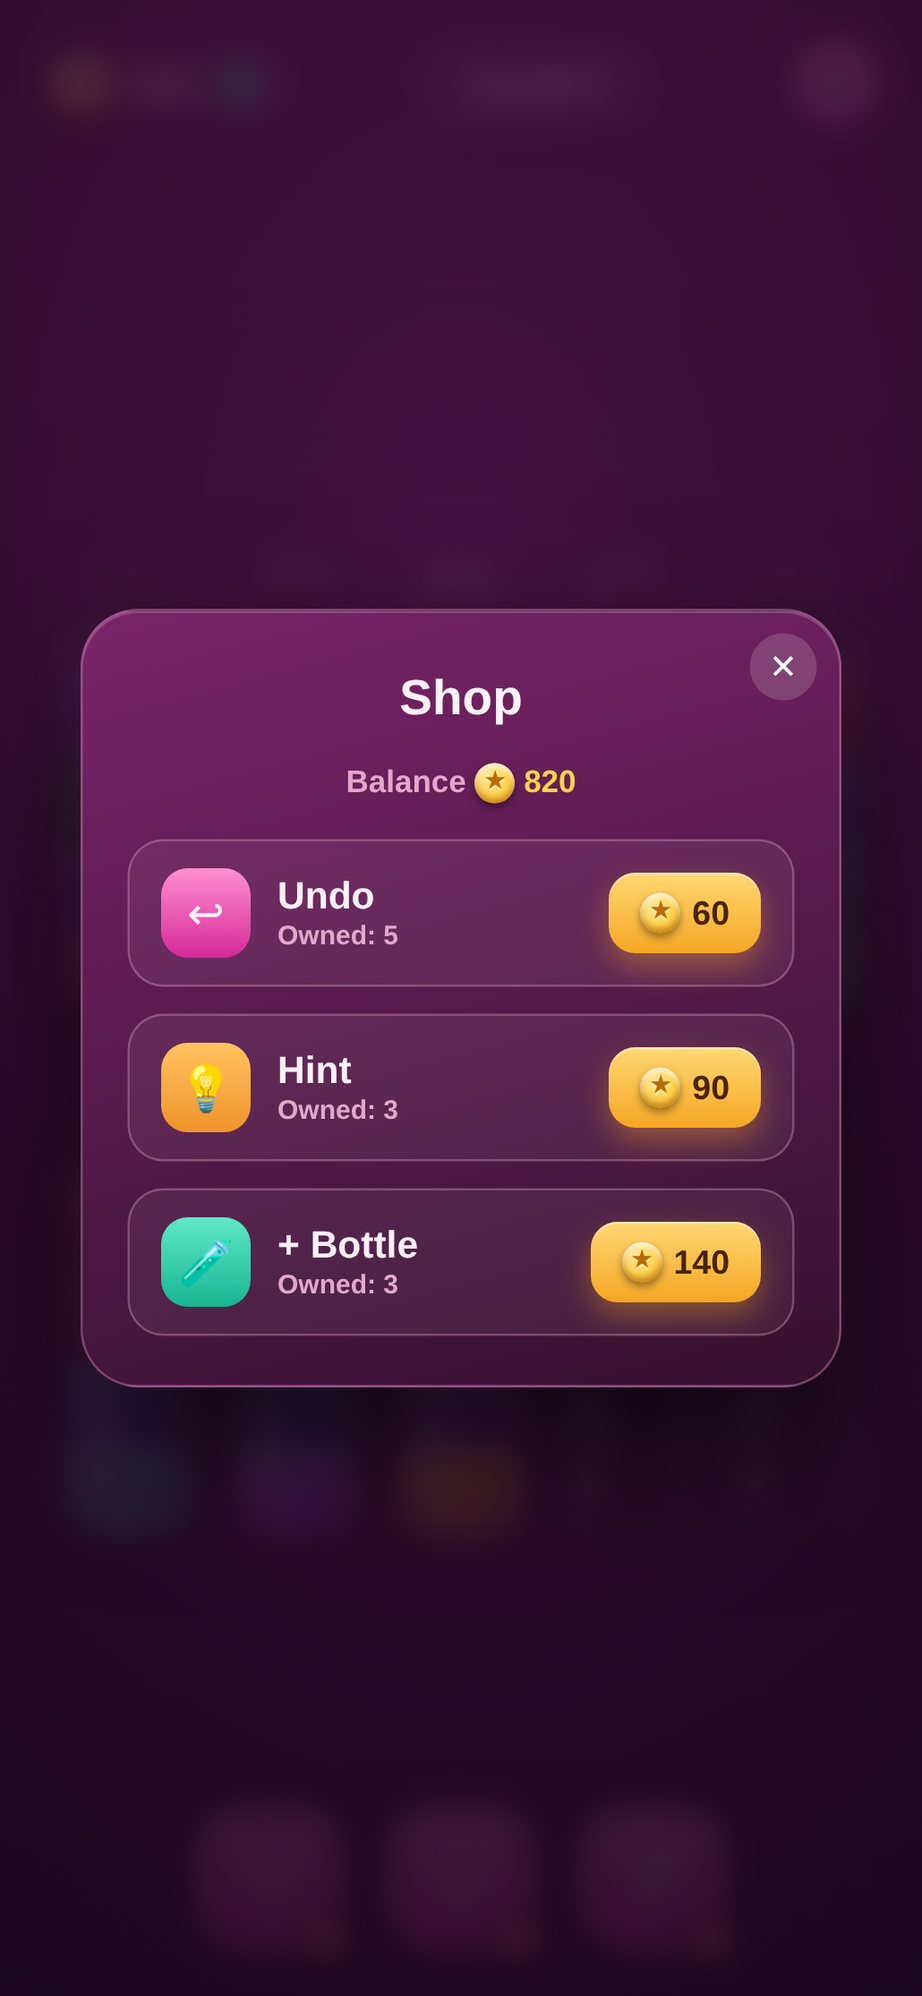
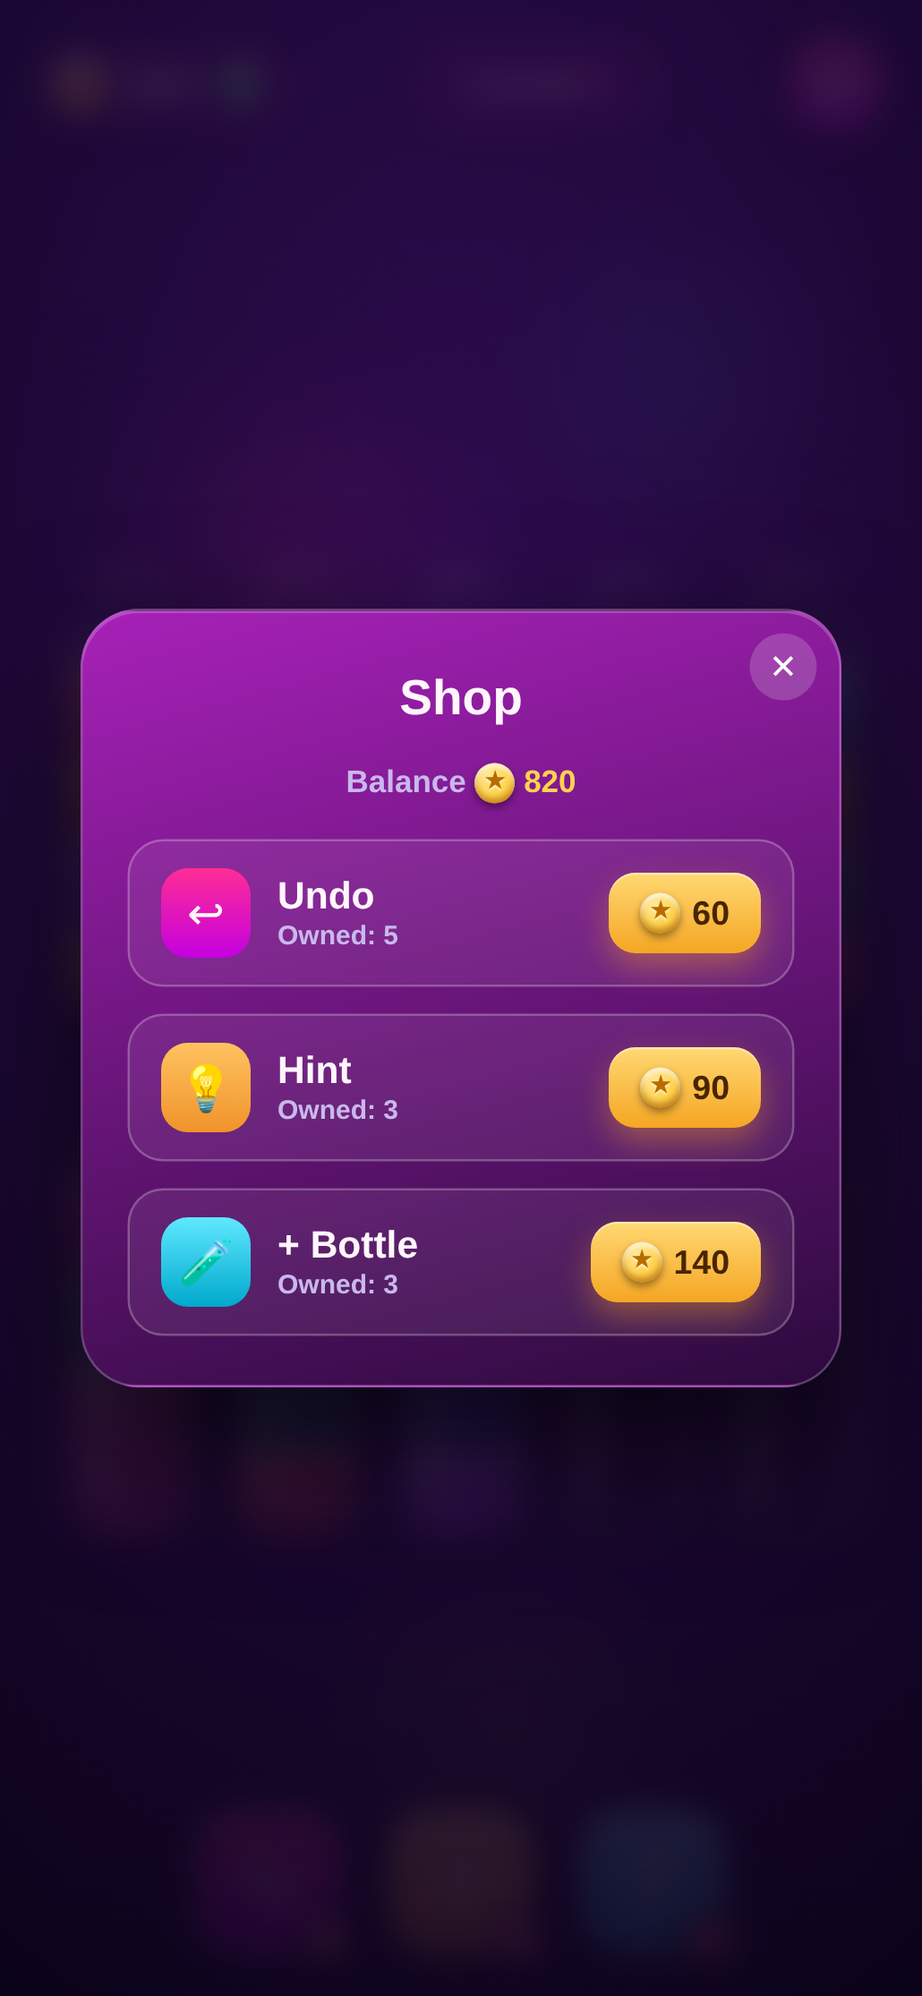
Candy-pop palette redesign + juicy coin feedback
The monochrome plum/pink theme read as flat and adult, not the playful
kid-friendly 'Pop' the name promises. Full repaint:

- Background: swap the single pink-tinted haze for a gumball-machine
  glow — three saturated bokeh blobs (hot pink, cyan, gold) drifting
  over a deep indigo-violet night sky, plus pink/cyan/gold twinkle
  variety in the starfield.
- Power-up bar: each button gets its own candy colour (pink Undo,
  amber Hint, cyan +Bottle) instead of one repeated tint, with a
  thicker glossy top highlight for a harder candy-shell look.
  Settings gear and modal cards move to a punchier magenta-to-violet
  gradient; Next/Close CTA becomes a vivid lime green for contrast.
- Icon/favicon/OG image regenerated with the same saturated palette
  (hot-pink-to-magenta liquid, cyan sparkle accent).
- Addictive juice: the coin counter now tweens up/down instead of
  snapping, with a spring bounce on the coin pill whenever the balance
  changes (spend or earn) — verified via a solve-to-win run (820 to
  910 mid-tween to 950 final).
- Regenerate the pour/complete-FX README screenshots to match the new
  palette; drop two stale unreferenced screenshots.
- README: document the new palette/juice, and add step-by-step
  guidance for unifying split Vercel domains (same-project multiple
  domains vs. a stale duplicate project left over from the repo
  rename) — this requires Vercel dashboard access Claude doesn't have.
[…]

diff --git a/style.css b/style.css
@@ -1,18 +1,22 @@
 :root {
-  --bg-top: #5c1c56;
-  --bg-mid: #3a0f3d;
-  --bg-bot: #180620;
-  --panel: rgba(255, 140, 205, 0.14);
-  --stroke: rgba(255, 195, 228, 0.28);
-  --text: #fff0f8;
-  --text-dim: #e2a8cc;
-  --accent: #ff8fcf;
-  --pink: #ff6fb4;
-  --pink-2: #d6299a;
+  --bg-top: #22105a;
+  --bg-mid: #170b3c;
+  --bg-bot: #0a0620;
+  --panel: rgba(255, 70, 175, 0.16);
+  --stroke: rgba(255, 255, 255, 0.24);
+  --text: #fff6fb;
+  --text-dim: #c9b8ec;
+  --accent: #ff4fb0;
+  --pink: #ff2d95;
+  --pink-2: #c400e0;
+  --cyan: #22e0ff;
+  --cyan-2: #00a8cc;
+  --lime: #7dff5e;
+  --lime-2: #22c55e;
   --gold: #ffd34e;
   --gold-2: #f5a623;
-  --danger: #ff4d6d;
-  --shadow: rgba(35, 5, 30, 0.55);
+  --danger: #ff3860;
+  --shadow: rgba(10, 0, 25, 0.6);
 }
 
 * { box-sizing: border-box; -webkit-tap-highlight-color: transparent; }
@@ -37,35 +41,41 @@ body {
 .s1 {
   background-image:
     radial-gradient(1.4px 1.4px at 20% 30%, #fff, transparent),
-    radial-gradient(1.6px 1.6px at 70% 20%, #ffd6ec, transparent),
+    radial-gradient(1.8px 1.8px at 70% 20%, #ff9fd6, transparent),
     radial-gradient(1.2px 1.2px at 40% 70%, #fff, transparent),
-    radial-gradient(1.5px 1.5px at 85% 60%, #fff, transparent),
-    radial-gradient(1.3px 1.3px at 55% 45%, #ffb8dd, transparent),
+    radial-gradient(1.8px 1.8px at 85% 60%, #7bf3ff, transparent),
+    radial-gradient(1.5px 1.5px at 55% 45%, #ffe89a, transparent),
     radial-gradient(1.2px 1.2px at 10% 80%, #fff, transparent),
-    radial-gradient(1.5px 1.5px at 90% 88%, #fff, transparent);
+    radial-gradient(1.6px 1.6px at 90% 88%, #ff9fd6, transparent);
   background-size: 320px 320px;
   animation: twinkle 4.5s ease-in-out infinite alternate, floatY 60s linear infinite;
 }
 .s2 {
   background-image:
-    radial-gradient(1px 1px at 30% 50%, rgba(255,255,255,0.8), transparent),
-    radial-gradient(1px 1px at 65% 75%, rgba(255,214,236,0.8), transparent),
+    radial-gradient(1px 1px at 30% 50%, rgba(255,255,255,0.85), transparent),
+    radial-gradient(1.2px 1.2px at 65% 75%, rgba(123,243,255,0.8), transparent),
     radial-gradient(1px 1px at 15% 20%, rgba(255,255,255,0.7), transparent),
-    radial-gradient(1px 1px at 80% 35%, rgba(255,255,255,0.7), transparent);
+    radial-gradient(1.2px 1.2px at 80% 35%, rgba(255,159,214,0.8), transparent);
   background-size: 200px 200px;
-  opacity: 0.6;
+  opacity: 0.65;
   animation: twinkle 6s ease-in-out infinite alternate-reverse, floatY 90s linear infinite;
 }
-@keyframes twinkle { from { opacity: .35; } to { opacity: .9; } }
+@keyframes twinkle { from { opacity: .35; } to { opacity: 1; } }
 @keyframes floatY { from { transform: translateY(0); } to { transform: translateY(60px); } }
-/* soft light halo behind the bottles */
+/* candy-glow bokeh: three saturated blobs (pink / cyan / gold) so the
+   backdrop reads as a gumball-machine glow, not a single flat tint */
 .glow {
-  position: absolute;
-  left: 50%; top: 52%;
-  width: 120vmin; height: 120vmin;
-  transform: translate(-50%, -50%);
-  background: radial-gradient(closest-side, rgba(255,140,205,0.22), rgba(255,110,190,0.08) 45%, transparent 70%);
-  filter: blur(4px);
+  position: absolute; inset: -10%;
+  background:
+    radial-gradient(closest-side, rgba(255, 45, 149, 0.38), transparent 72%) 20% 26% / 62vmin 62vmin no-repeat,
+    radial-gradient(closest-side, rgba(34, 224, 255, 0.24), transparent 72%) 84% 18% / 54vmin 54vmin no-repeat,
+    radial-gradient(closest-side, rgba(255, 211, 78, 0.18), transparent 72%) 58% 88% / 58vmin 58vmin no-repeat;
+  filter: blur(6px);
+  animation: drift 22s ease-in-out infinite alternate;
+}
+@keyframes drift {
+  from { transform: translate3d(-2%, -1%, 0) scale(1.02); }
+  to   { transform: translate3d(3%, 2%, 0) scale(1.08); }
 }
 
 #app {
@@ -88,15 +98,17 @@ body {
   border: 1px solid var(--stroke);
   background: var(--panel);
   backdrop-filter: blur(8px);
-  box-shadow: 0 6px 16px var(--shadow), inset 0 1px 0 rgba(255,255,255,0.14);
+  box-shadow: 0 6px 16px var(--shadow), inset 0 1px 0 rgba(255,255,255,0.16);
 }
 .coin-pill { gap: 8px; padding: 5px 12px 5px 6px; cursor: pointer; color: var(--text); font: inherit; transition: transform .12s; }
 .coin-pill:active { transform: scale(0.95); }
+.coin-pill.coin-bounce { animation: coinBounce .45s cubic-bezier(.34,1.7,.4,1); }
+@keyframes coinBounce { 0% { transform: scale(1); } 35% { transform: scale(1.16); } 62% { transform: scale(0.94); } 100% { transform: scale(1); } }
 .coin-plus {
   width: 20px; height: 20px; margin-left: 2px; border-radius: 50%;
   display: grid; place-items: center; font-weight: 900; font-size: 14px; line-height: 1;
-  background: linear-gradient(180deg, #4fe0b8, #17b491); color: #04291f;
-  box-shadow: inset 0 1px 0 rgba(255,255,255,.4);
+  background: linear-gradient(180deg, var(--lime), var(--lime-2)); color: #063d17;
+  box-shadow: inset 0 1px 0 rgba(255,255,255,.5);
 }
 .coin {
   width: 26px; height: 26px; border-radius: 50%;
@@ -122,7 +134,7 @@ body {
   color: #fff;
   display: grid; place-items: center;
   cursor: pointer;
-  box-shadow: 0 6px 16px var(--shadow), inset 0 1px 0 rgba(255,255,255,0.35);
+  box-shadow: 0 6px 16px var(--shadow), inset 0 2px 0 rgba(255,255,255,0.4);
   transition: transform .12s;
 }
 .round-btn:active { transform: scale(0.92); }
@@ -134,19 +146,23 @@ body {
 #game { position: absolute; inset: 0; width: 100%; height: 100%; display: block; touch-action: manipulation; }
 
 /* ============ Power-up bar ============ */
+/* A gumball trio — each power-up gets its own candy colour instead of one
+   flat repeated tint, so the bar itself reads as playful and varied. */
 .actions { display: flex; gap: 20px; justify-content: center; padding: 8px 0 6px; }
 .pw {
   position: relative;
   width: 66px; height: 66px;
   border-radius: 22px;
-  border: 2px solid rgba(255, 214, 120, 0.55);
-  background: linear-gradient(180deg, #ff8fd0, #d6299a);
+  border: 2px solid rgba(255, 255, 255, 0.35);
+  background: linear-gradient(180deg, var(--pink), var(--pink-2));
   color: #fff;
   display: grid; place-items: center;
   cursor: pointer;
-  box-shadow: 0 8px 20px var(--shadow), inset 0 2px 0 rgba(255,255,255,0.3), inset 0 -4px 8px rgba(120,0,80,0.25);
+  box-shadow: 0 8px 20px var(--shadow), inset 0 3px 0 rgba(255,255,255,0.4), inset 0 -4px 8px rgba(90,0,60,0.3);
   transition: transform .1s, filter .2s;
 }
+#hintBtn.pw { background: linear-gradient(180deg, #ffc25f, #f0932b); box-shadow: 0 8px 20px var(--shadow), inset 0 3px 0 rgba(255,255,255,0.45), inset 0 -4px 8px rgba(120,60,0,0.3); }
+#addTubeBtn.pw { background: linear-gradient(180deg, #5fe8ff, #00a8cc); box-shadow: 0 8px 20px var(--shadow), inset 0 3px 0 rgba(255,255,255,0.45), inset 0 -4px 8px rgba(0,60,80,0.3); }
 .pw:active { transform: translateY(3px) scale(0.96); }
 .pw svg { width: 30px; height: 30px; }
 .pw-badge {
@@ -158,14 +174,14 @@ body {
   color: #fff;
   font-family: "Baloo 2", sans-serif; font-weight: 800; font-size: 13px;
   display: grid; place-items: center;
-  border: 2px solid #3a0f2e;
+  border: 2px solid #1f0f3d;
   box-shadow: 0 3px 7px rgba(0,0,0,.45);
 }
 .pw-badge.ad::before { content: "▶"; font-size: 10px; }
 .pw.pulse { animation: pwpulse 1s ease infinite; }
 @keyframes pwpulse {
-  0%,100% { box-shadow: 0 8px 20px var(--shadow), inset 0 2px 0 rgba(255,255,255,.3), 0 0 0 0 rgba(255,211,78,0); }
-  50% { box-shadow: 0 8px 20px var(--shadow), inset 0 2px 0 rgba(255,255,255,.3), 0 0 0 8px rgba(255,211,78,.3); }
+  0%,100% { box-shadow: 0 8px 20px var(--shadow), inset 0 3px 0 rgba(255,255,255,.4), 0 0 0 0 rgba(255,211,78,0); }
+  50% { box-shadow: 0 8px 20px var(--shadow), inset 0 3px 0 rgba(255,255,255,.4), 0 0 0 8px rgba(255,211,78,.35); }
 }
 
 /* ============ Overlays / modals ============ */
@@ -173,7 +189,7 @@ body {
   position: fixed; inset: 0; z-index: 60;
   display: flex; align-items: center; justify-content: center;
   padding: 24px;
-  background: radial-gradient(120% 90% at 50% 30%, rgba(70,17,64,0.80), rgba(22,5,26,0.92));
+  background: radial-gradient(120% 90% at 50% 30%, rgba(50,12,80,0.82), rgba(8,3,20,0.94));
   backdrop-filter: blur(7px);
   animation: fade .25s ease;
 }
@@ -186,9 +202,9 @@ body {
   z-index: 2;
   width: 100%; max-width: 340px;
   border-radius: 26px;
-  background: linear-gradient(165deg, #7a2569, #34102f);
-  border: 1px solid rgba(255,190,225,0.30);
-  box-shadow: 0 28px 64px rgba(0,0,0,0.65), inset 0 1px 0 rgba(255,255,255,0.18);
+  background: linear-gradient(165deg, #a721b8, #2c0a3d);
+  border: 1px solid rgba(255,255,255,0.22);
+  box-shadow: 0 28px 64px rgba(0,0,0,0.65), inset 0 1px 0 rgba(255,255,255,0.2);
   animation: rise .35s cubic-bezier(.2,1.4,.5,1);
   text-align: center;
 }
@@ -201,7 +217,7 @@ body {
   display: flex; justify-content: center; align-items: flex-end; gap: 10px;
   pointer-events: none;
 }
-.win-star { font-size: 50px; line-height: 1; color: #4a1f45; text-shadow: 0 4px 8px rgba(0,0,0,.45); transform: scale(.7); }
+.win-star { font-size: 50px; line-height: 1; color: #3d1a4a; text-shadow: 0 4px 8px rgba(0,0,0,.45); transform: scale(.7); }
 .win-star.mid { font-size: 62px; margin-bottom: 6px; }
 .win-star.on { color: var(--gold); text-shadow: 0 0 20px rgba(255,211,78,.85), 0 4px 8px rgba(0,0,0,.45); animation: starpop .5s cubic-bezier(.2,1.7,.4,1) forwards; }
 @keyframes starpop { 0% { transform: scale(.2) rotate(-25deg); opacity: 0; } 65% { transform: scale(1.3) rotate(8deg); } 100% { transform: scale(1) rotate(0); opacity: 1; } }
@@ -218,7 +234,7 @@ body {
 .win-title { font-family: "Baloo 2", sans-serif; font-size: 28px; margin: 2px 0 6px; color: #fff; }
 .win-sub { color: var(--text-dim); font-size: 15px; margin: 0 0 12px; font-weight: 700; }
 .win-sub b { color: #fff; }
-.win-coins { display: inline-flex; align-items: center; justify-content: center; gap: 6px; margin-bottom: 22px; padding: 6px 16px; border-radius: 999px; background: rgba(255,211,78,0.14); font-family: "Baloo 2", sans-serif; font-size: 19px; color: var(--gold); }
+.win-coins { display: inline-flex; align-items: center; justify-content: center; gap: 6px; margin-bottom: 22px; padding: 6px 16px; border-radius: 999px; background: rgba(255,211,78,0.16); font-family: "Baloo 2", sans-serif; font-size: 19px; color: var(--gold); }
 .btn {
   flex: 1; padding: 15px 12px; border-radius: 16px; border: none;
   font-family: "Baloo 2", sans-serif; font-size: 17px; font-weight: 800; cursor: pointer;
@@ -226,8 +242,8 @@ body {
 }
 .btn:active { transform: scale(0.96); }
 .btn.wide { width: 100%; }
-.btn.primary { background: linear-gradient(180deg, #4fe0b8, #17b491); color: #04291f; box-shadow: 0 10px 22px rgba(23,180,145,.45), inset 0 1px 0 rgba(255,255,255,.35); }
-.btn.ghost { background: rgba(255,255,255,0.08); color: var(--text); border: 1px solid var(--stroke); }
+.btn.primary { background: linear-gradient(180deg, var(--lime), var(--lime-2)); color: #063d17; box-shadow: 0 10px 22px rgba(34,197,94,.5), inset 0 2px 0 rgba(255,255,255,.4); }
+.btn.ghost { background: rgba(255,255,255,0.10); color: var(--text); border: 1px solid var(--stroke); }
 
 /* Settings modal */
 .modal-card { padding: 26px 22px; }
@@ -236,7 +252,7 @@ body {
   width: 100%; display: flex; align-items: center; justify-content: space-between;
   padding: 14px 16px; margin-bottom: 10px;
   border-radius: 14px; border: 1px solid var(--stroke);
-  background: rgba(255,255,255,0.07); color: var(--text);
+  background: rgba(255,255,255,0.08); color: var(--text);
   font-family: "Nunito", sans-serif; font-weight: 800; font-size: 16px; cursor: pointer;
 }
 .row-val { color: var(--accent); }
@@ -252,18 +268,18 @@ body {
 .ad-x {
   position: absolute; top: 10px; right: 10px;
   width: 30px; height: 30px; border-radius: 50%;
-  border: none; background: rgba(255,255,255,0.16); color: #fff; font-size: 15px; cursor: pointer;
+  border: none; background: rgba(255,255,255,0.18); color: #fff; font-size: 15px; cursor: pointer;
 }
 .ad-visual {
   margin: 14px 0 16px; padding: 26px 14px;
   border-radius: 18px;
-  background: linear-gradient(150deg, #d6299a, #ff6fb4);
+  background: linear-gradient(150deg, #c400e0, #ff4fb0);
   box-shadow: inset 0 2px 10px rgba(0,0,0,.3);
 }
 .ad-icon { font-size: 54px; line-height: 1; filter: drop-shadow(0 4px 8px rgba(0,0,0,.4)); }
 .ad-headline { font-family: "Baloo 2", sans-serif; font-weight: 800; font-size: 22px; margin-top: 8px; }
 .ad-reward { color: #ffe08a; font-weight: 800; margin-top: 4px; }
-.ad-progress { height: 8px; border-radius: 6px; background: rgba(255,255,255,0.14); overflow: hidden; margin: 4px 0 8px; }
+.ad-progress { height: 8px; border-radius: 6px; background: rgba(255,255,255,0.16); overflow: hidden; margin: 4px 0 8px; }
 .ad-progress-fill { height: 100%; width: 0%; background: linear-gradient(90deg, #ffd34e, #f5a623); transition: width .1s linear; }
 .ad-status { color: var(--text-dim); font-weight: 700; font-size: 14px; margin-bottom: 12px; min-height: 18px; }
 
@@ -273,12 +289,12 @@ body {
 .shop-item {
   display: flex; align-items: center; gap: 12px;
   padding: 12px 14px; border-radius: 16px;
-  border: 1px solid var(--stroke); background: rgba(255,255,255,0.06);
+  border: 1px solid var(--stroke); background: rgba(255,255,255,0.07);
 }
 .shop-ic { width: 40px; height: 40px; border-radius: 12px; display: grid; place-items: center; font-size: 20px; flex: 0 0 auto; }
-.shop-ic.undo { background: linear-gradient(180deg, #ff8fd0, #d6299a); }
+.shop-ic.undo { background: linear-gradient(180deg, var(--pink), var(--pink-2)); }
 .shop-ic.hint { background: linear-gradient(180deg, #ffc25f, #f0932b); }
-.shop-ic.add { background: linear-gradient(180deg, #5fe8c9, #17b491); }
+.shop-ic.add { background: linear-gradient(180deg, #5fe8ff, #00a8cc); }
 .shop-info { flex: 1; display: flex; flex-direction: column; line-height: 1.2; text-align: left; }
 .shop-info b { font-family: "Baloo 2", sans-serif; font-size: 17px; }
 .shop-info small { font-size: 12px; color: var(--text-dim); font-weight: 700; }
@@ -306,8 +322,8 @@ body {
   transition: transform .1s, filter .2s, opacity .2s;
 }
 .store-opt:active { transform: scale(0.97); }
-.store-opt.watch { background: linear-gradient(180deg, #ff8fd0, #d6299a); box-shadow: 0 8px 18px var(--shadow), inset 0 1px 0 rgba(255,255,255,.25); }
-.store-opt.buy { background: linear-gradient(180deg, #ffd873, var(--gold-2)); box-shadow: 0 8px 18px rgba(245,166,35,.4), inset 0 1px 0 rgba(255,255,255,.35); }
+.store-opt.watch { background: linear-gradient(180deg, var(--pink), var(--pink-2)); box-shadow: 0 8px 18px var(--shadow), inset 0 1px 0 rgba(255,255,255,.3); }
+.store-opt.buy { background: linear-gradient(180deg, #ffd873, var(--gold-2)); box-shadow: 0 8px 18px rgba(245,166,35,.4), inset 0 1px 0 rgba(255,255,255,.4); }
 .store-opt.buy .so-txt b, .store-opt.buy .so-txt small { color: #4a2400; }
 .store-opt.buy .so-ic { background: rgba(74,36,0,0.14); }
 .store-opt.buy.disabled { filter: grayscale(0.7) brightness(0.8); opacity: 0.6; }

diff --git a/game.js b/game.js
@@ -976,10 +976,32 @@ function loadLevel(level) {
 
 function updateHud() {
   levelValueEl.textContent = String(state.level);
-  coinValueEl.textContent = String(state.coins);
+  animateCoins(state.coins);
   setBadge("undoBadge", state.pw.undo);
   setBadge("hintBadge", state.pw.hint);
   setBadge("addBadge", state.pw.add);
+}
+
+// Juicy coin counter: ticks up/down toward the target instead of snapping,
+// and gives the coin pill a little bounce when the balance changes.
+let coinShown = null, coinTween = null;
+function animateCoins(target) {
+  if (coinShown === null) { coinShown = target; coinValueEl.textContent = String(target); return; }
+  if (coinShown === target) return;
+  const from = coinShown, delta = target - from, dur = Math.min(900, 250 + Math.abs(delta) * 6);
+  const t0 = performance.now();
+  const pill = document.getElementById("coinPill");
+  if (pill) { pill.classList.remove("coin-bounce"); void pill.offsetWidth; pill.classList.add("coin-bounce"); }
+  cancelAnimationFrame(coinTween);
+  const step = (now) => {
+    const p = Math.min(1, (now - t0) / dur);
+    const eased = 1 - Math.pow(1 - p, 3);
+    const val = Math.round(from + delta * eased);
+    coinValueEl.textContent = String(val);
+    if (p < 1) coinTween = requestAnimationFrame(step);
+    else coinShown = target;
+  };
+  coinTween = requestAnimationFrame(step);
 }
 function setBadge(id, n) {
   const el = document.getElementById(id);

diff --git a/index.html b/index.html
@@ -33,7 +33,7 @@
   <link rel="preconnect" href="https://fonts.googleapis.com" />
   <link rel="preconnect" href="https://fonts.gstatic.com" crossorigin />
   <link href="https://fonts.googleapis.com/css2?family=Baloo+2:wght@600;700;800&family=Nunito:wght@700;800;900&display=swap" rel="stylesheet" />
-  <link rel="stylesheet" href="style.css?v=11" />
+  <link rel="stylesheet" href="style.css?v=12" />
 </head>
 <body>
   <div class="sky" aria-hidden="true">
@@ -167,6 +167,6 @@
     </div>
   </div>
 
-  <script src="game.js?v=11"></script>
+  <script src="game.js?v=12"></script>
 </body>
 </html>

diff --git a/README.md b/README.md
@@ -31,7 +31,8 @@
 
 ## 特徴
 
-- **ピンク基調のかわいいビジュアル**：キャンディピンクのグラデ＋星空（きらめくスターフィールド）背景、ボトルの奥に淡いピンクの光のハロー。パワーアップボタン・パネル・歯車まで統一されたピンク×ゴールド×ミントの配色。UI は英語・アイコン中心。
+- **子供でも楽しいキャンディポップな配色**：夜空にピンク・シアン・ゴールドの3色が輝くガムボールマシンのような背景グロー＋きらめく星空。パワーアップボタンはピンク／オレンジ／シアンの3色に分かれたガムボール風トリオ、Nextボタンは鮮やかなライムグリーン——単調な一色にせず、あえて色を散らして楽しい配色に。UI は英語・アイコン中心。
+- **クセになるフィードバック**：コインが増減するたびにカウントアップし、コインピルがキュッとバウンド。獲得の瞬間が気持ちよく積み重なるように演出しています。
 - **プルンと弾むジェリー演出**：ボトルをつまむと**プルプル**とジェリーのようにスクワッシュ&ストレッチ。注ぎが終わって着地する瞬間にも、注ぎ元・注ぎ先の両方が小さく弾みます。
 - **ボトルが傾く注ぎ演出**：注ぐボトルが持ち上がって傾き、放物線状の液体が注ぎ先へ。注ぎ元は減り、注ぎ先はせり上がって波打ちます。
 - **本物の液体表現**：Canvas でリアルタイム描画。円柱シェーディング、波打つ水面とメニスカスの光沢、立ちのぼる気泡、着水の波紋、ガラスの反射。
@@ -76,6 +77,16 @@ vercel --prod # 本番環境へデプロイ
 2. **Settings → Git** の **Production Branch** を `claude/water-puzzle-game-8a215u`（このリポジトリの既定ブランチ）にしておくと、push で本番が自動更新されます。
 3. 最新コミットが本番に出ていない場合は **Deployments** で最新デプロイを開き `⋯ → Promote to Production`。
 4. 反映後はブラウザを **ハードリロード**（Ctrl/Cmd+F5）で確認。
+
+### Vercel のドメインが複数に分かれてしまったときは
+
+`*.vercel.app` の URL が2つ以上できてしまう場合、多くは次のどちらかです（Vercel のダッシュボード操作が必要で、Claude からは直接統一できません）。
+
+**ケース A：同じプロジェクトに複数ドメインがぶら下がっている**
+Vercel はブランチ名入りの自動 URL（`purupop-git-<branch>-<team>.vercel.app`）と、デプロイごとの固定 URL（`purupop-<hash>-<team>.vercel.app`）を毎回発行します。これは仕様で、これ自体は問題ではありません。**常に使う1本に絞りたい場合**は、Project → Settings → Domains で使いたいドメイン（独自ドメイン、または `xxx.vercel.app`）を追加し、行の `Edit` から他のドメインを「**Redirect to**」でそのドメインへ301リダイレクトするよう設定してください。
+
+**ケース B：プロジェクトそのものが2つに分かれている**
+GitHub リポジトリ名を `Water-Puzzle` → `PotionPop` → `PuruPop` と変更した際、Vercel 側で**別プロジェクトとして再インポートされ、新旧2つのプロジェクトが並存している**ことがあります。この場合は Vercel ダッシュボードのプロジェクト一覧を確認し、①現在のリポジトリ（`PuruPop`）に接続されている方を残す、②使われていない旧プロジェクト（`water-puzzle` 等の名前）を Settings → Advanced → **Delete Project** で削除、③独自ドメインは残す方のプロジェクトの Settings → Domains に付け直す、という手順で1本化してください。
 
 ### PWA / 共有
 
